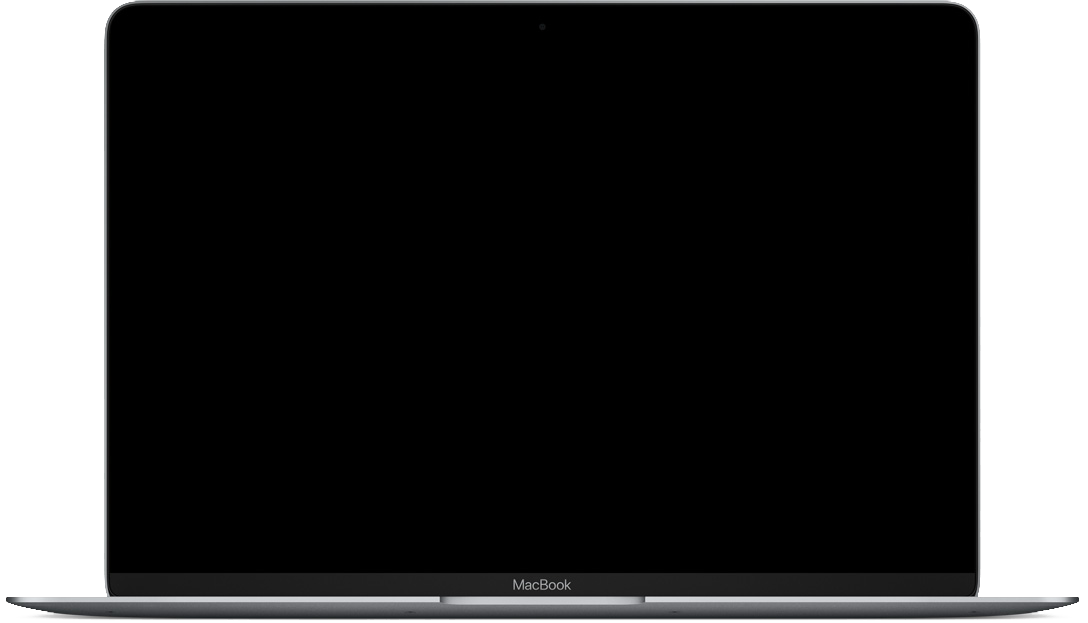
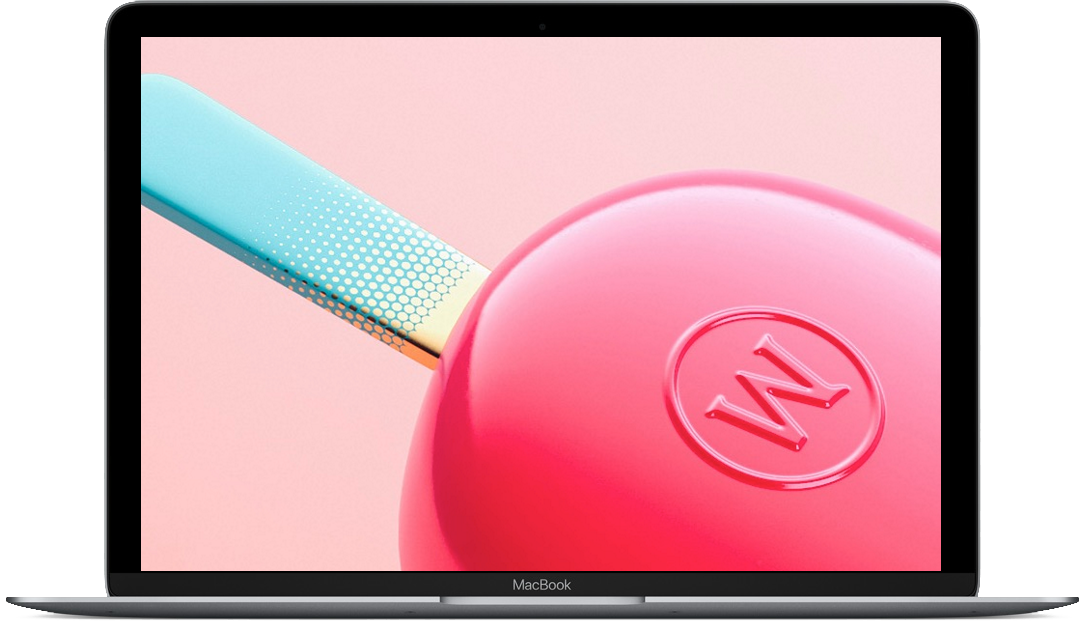
Got the correct layout for the cover

diff --git a/cover.html b/cover.html
@@ -33,12 +33,12 @@
 
     <section id="cover">
         <div class="row h-100 justify-content-center text-center">
-            <div class="col-8 d-flex flex-column">
-                <div><h1>Hexon Creative</h1></div>
-                <div>
+            <div class="col-8 d-flex flex-column justify-content-around">
+                <div class=""><h1>Hexon Creative</h1></div>
+                <div class="w-75 align-self-center">
                     <img src="assets/images/macbook.png" class="img-fluid">
                 </div>
-                <div>
+                <div class="">
                     <h2>Slick approach</h2>
                     <p>We are hexon creative and we believe in building great products. What drives is<br> constant challenge and non stop changing of our everyday jobs.</p>
                 </div>
